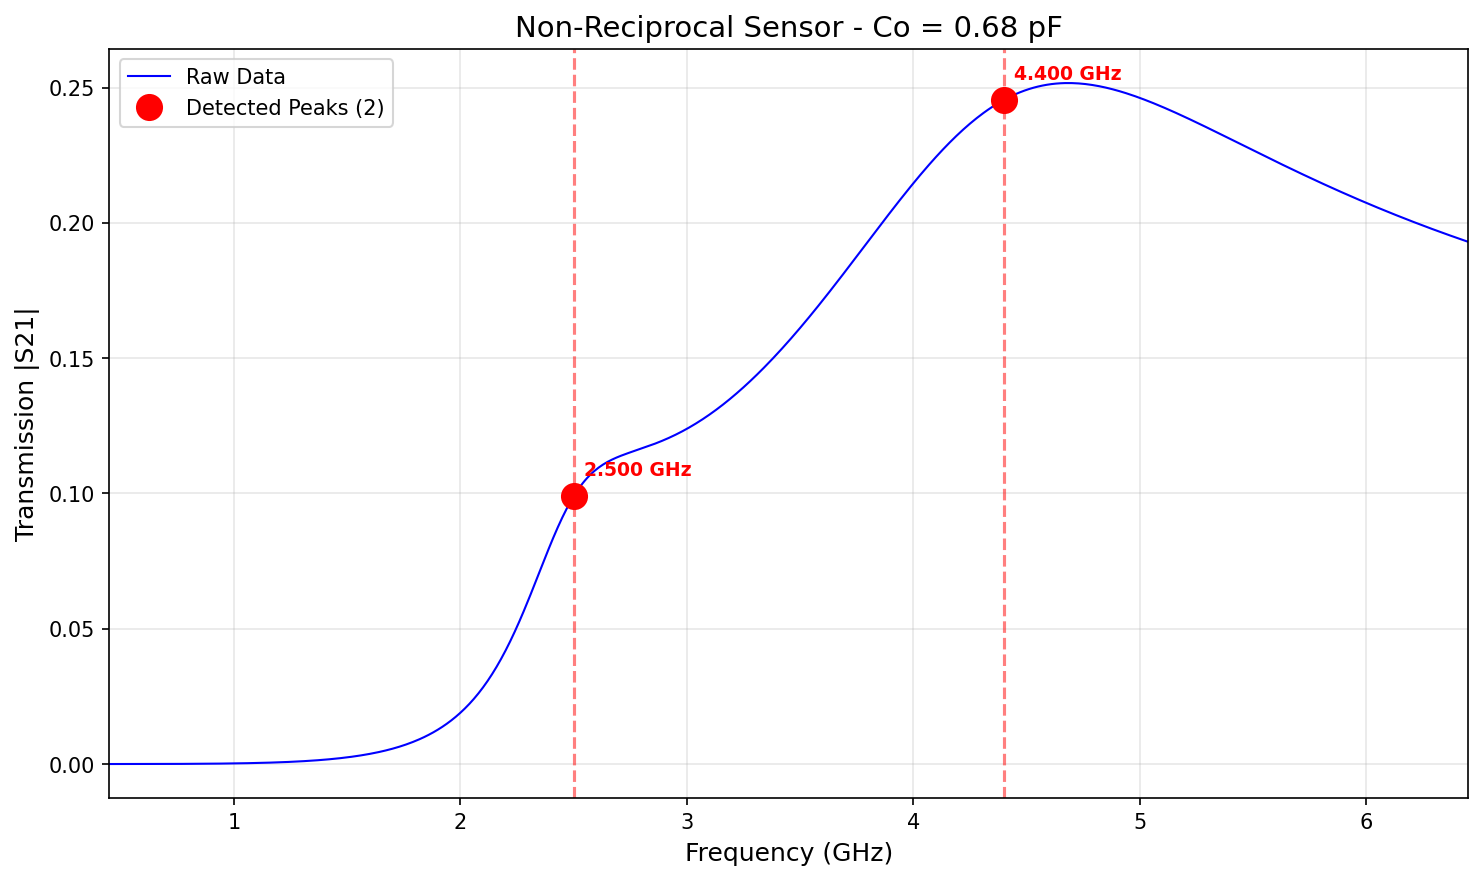
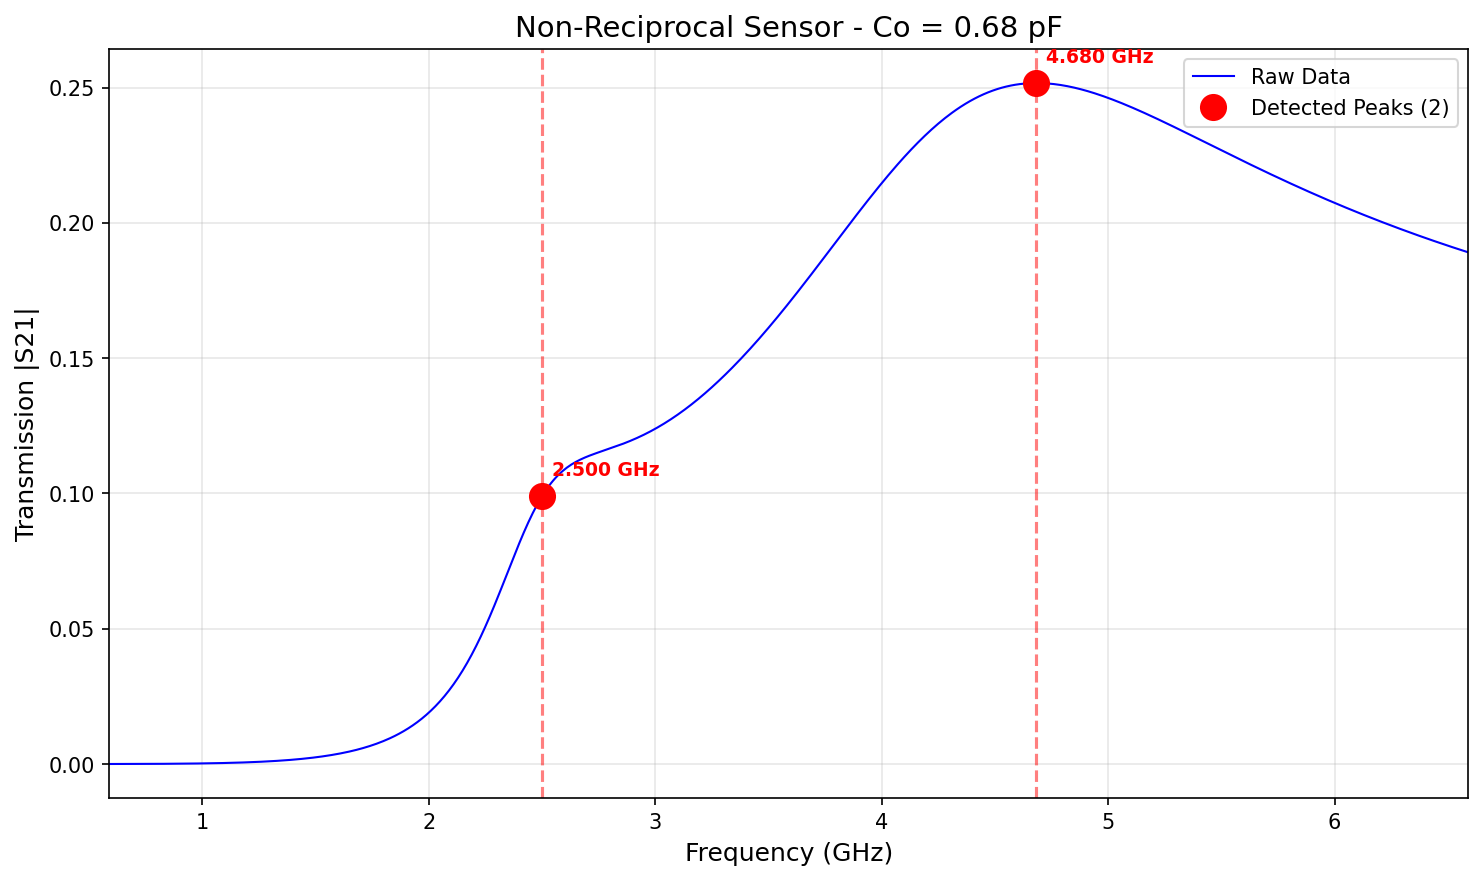
Fix peak detection to snap second-derivative features to true local maxima
The second derivative method was detecting inflection points on peak slopes
instead of actual peak maxima. For example, a broad peak at 4.6 GHz would
be reported at 4.39 GHz (the inflection point on the rising edge).

Added a refinement step that searches for nearby true local maxima within
0.5 GHz of each second-derivative feature and snaps to them. Shoulders
with no nearby local maximum keep their original position.

https://claude.ai/code/session_01SgRVjLYurBKPwG16aD4KZu

diff --git a/src/process_sensor_data.py b/src/process_sensor_data.py
@@ -151,8 +151,37 @@ def find_two_peaks_second_derivative(freq, transmission):
         heights = d2_neg[d2_peaks]
         # argsort gives indices that would sort the array; take last 2 (largest)
         top2_idx = d2_peaks[heights.argsort()[-2:]]
-        # Return sorted by index (i.e., by frequency, lower first)
-        return sorted(top2_idx)
+        # Sort by index (i.e., by frequency, lower first)
+        result = sorted(top2_idx)
+
+        # Step 7: Refinement - snap to nearest actual local maximum if one exists
+        # The second derivative detects inflection points (where curvature changes),
+        # which can occur on the rising/falling slope of a peak, not at the actual
+        # peak maximum. For example, a broad asymmetric peak at 4.6 GHz may have
+        # its strongest inflection point at 4.4 GHz on the rising edge.
+        # We fix this by finding all true local maxima in the smoothed data and
+        # snapping each second-derivative feature to the nearest local maximum
+        # if one exists within 0.5 GHz. For true shoulders (no nearby local max),
+        # the position is left unchanged.
+        local_maxima, _ = find_peaks(trans_smooth, distance=20)
+
+        refined = list(result)
+        for i in range(len(refined)):
+            idx = refined[i]
+            # Find local maxima within 0.5 GHz of this second-derivative feature
+            nearby = local_maxima[np.abs(freq[local_maxima] - freq[idx]) < 0.5]
+            if len(nearby) > 0:
+                # Among nearby maxima, pick the one with the highest transmission
+                # This ensures we snap to the actual peak, not a noise blip
+                best = nearby[trans_smooth[nearby].argmax()]
+                refined[i] = int(best)
+
+        # Make sure both features didn't snap to the same local maximum
+        # If they did, revert the second one to its original position
+        if refined[0] == refined[1]:
+            refined = list(result)
+
+        return sorted(refined)
 
     # If we couldn't find 2 features, return None to signal failure
     return None
